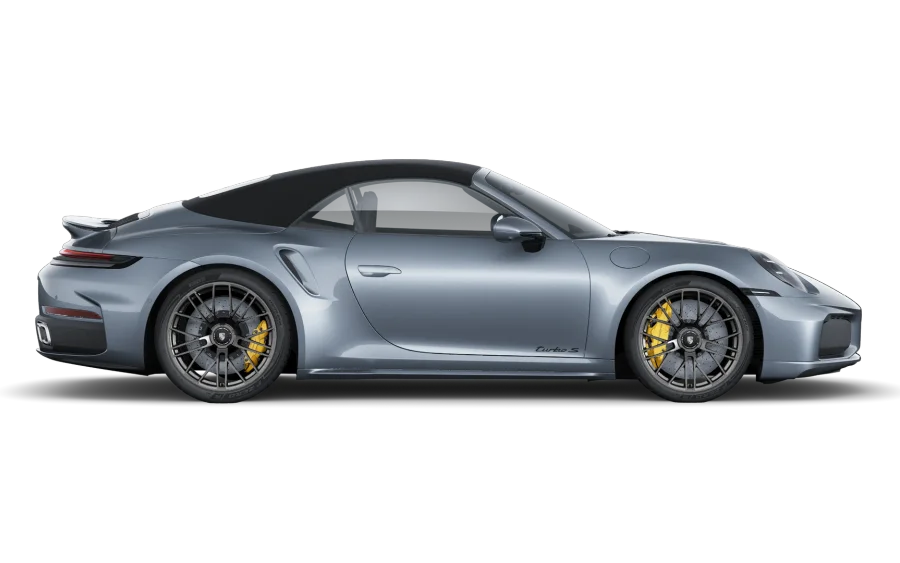
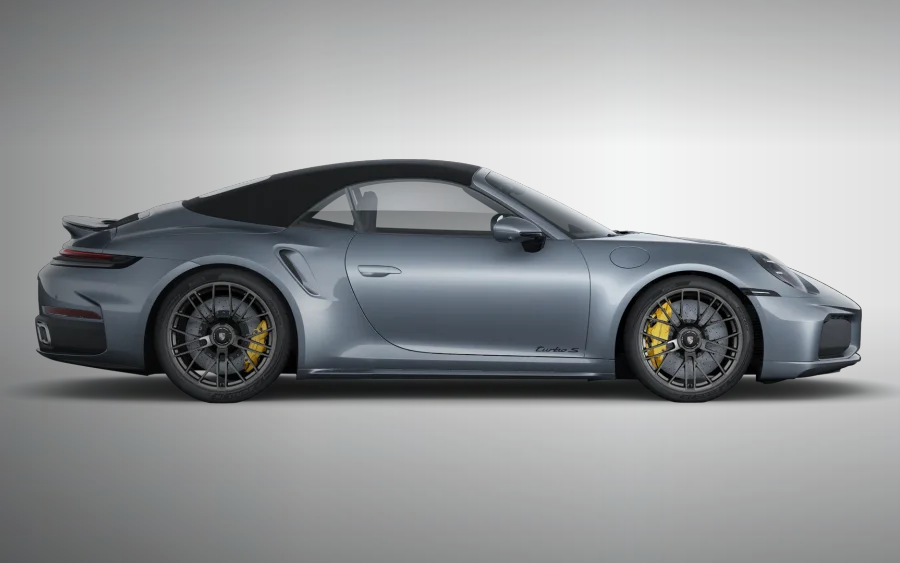
Bake the house veil into the card photographs
The shelf read as a set of loose photographs next to pages that all sit their
type over a darkened frame. The card photographs now carry the same grade: a
gradient from the left, the bottom and the top, baked in at build time.

No text and no mark go into the image. A card is not a link preview: its frame
is 16:10 against the preview's 1.9:1, so a baked title loses its left edge, the
name would appear twice, and the mark collides with the index the design places
over the photograph.

The veil stays gentle on purpose — nothing is printed on top of it here, and
two of the cars are black. It is baked into the WebP rather than added in CSS
because catalog.css belongs to the design system.

Claude-Session: https://claude.ai/code/session_01LzLfSd7oL8VTCB4WAnLsn5

diff --git a/AGENTS.md b/AGENTS.md
@@ -166,7 +166,10 @@ CLAUDE.md                      — подключает AGENTS.md для Claude 
   синтаксис в пакетах разный);
 - если `data/offer.js` нет (оффер одним файлом) — из og-тегов `index.html`;
 - фото карточки — hero этого оффера, пережатый в `assets/media/<slug>.webp`
-  (900×563, WebP, до 100 КБ) через `sharp`. Миниатюра из `thumbs/` берётся
+  (900×563, WebP, до 100 КБ) через `sharp`, **с вшитым фирменным затемнением**
+  (градиент слева, снизу и сверху; без текста и без знака — все подписи живут
+  под картинкой, в самой карточке). Затемнение намеренно мягкое: поверх него
+  ничего не печатается, а часть машин чёрные. Миниатюра из `thumbs/` берётся
   только если этот файл реально есть в галерее оффера: в некоторых пакетах
   в `thumbs/` лежат чужие остатки от шаблона (в `o/8sq511/` — `thumbs/hero.webp`
   от Ferrari). Фото удалённых офферов сборщик удаляет сам.
@@ -283,3 +286,19 @@ confidential).
 кадра — все фото детальные, карточка режет по 16:10. Стоит подмена на
 `06.webp` через `images` в `catalog.json`; если придёт нормальное фото машины
 целиком, карточка станет лучше сама.
+
+### 2026-09-22 — Claude (витрина опубликована, затемнение на карточках)
+Каталог влит в `main` и живой на `https://offers.asg-hub.com/`.
+
+По карточкам сетки решили: фото идут **под фирменным градиентом**, но без
+вшитого текста и без знака ASG. Пробовали два отвергнутых варианта, чтобы
+не возвращаться к ним:
+- карточка = `share.jpg` оффера как есть: превью 1.9:1 против рамки 16:10 —
+  режется левый край с логотипом и названием, плюс имя машины дублируется
+  (в картинке и строкой ниже);
+- фото + затемнение + знак ASG: знак сталкивается с номером карточки, который
+  дизайн ставит в левый верхний угол.
+
+Затемнение вшивается в `assets/media/<slug>.webp` на сборке, а не в CSS:
+`catalog.css` — файл дизайн-системы, его не трогаем. Константа `VEIL` в
+`tools/build-catalog.mjs`.
